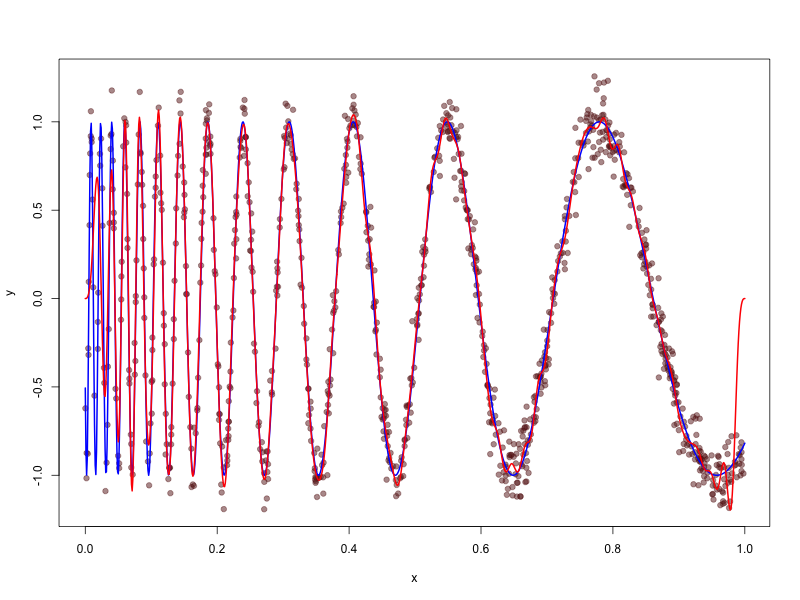
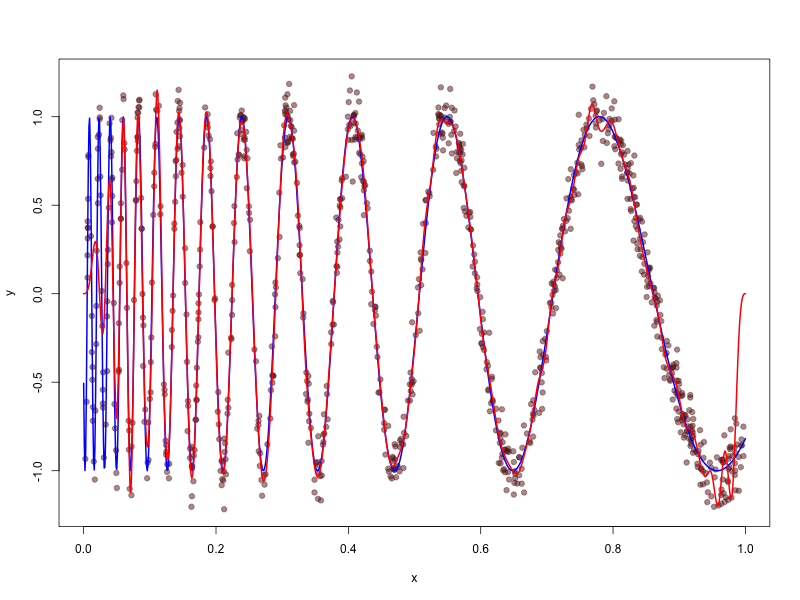
minor changes

diff --git a/examples/language/orgmode_example.html b/examples/language/orgmode_example.html
@@ -1,0 +1,50 @@
+<!DOCTYPE html>
+<html lang="en">
+<head>
+<meta charset="utf-8">
+<meta name="viewport" content="width=device-width, initial-scale=1">
+<title>Untitled</title>
+<style>body{max-width:48em;margin:2em auto;padding:0 1em;background:#fff;font-family:sans-serif;line-height:1.5;color:#222}pre{background:#f2f2f2;padding:0.6em;overflow:auto;border-radius:3px}code{background:#f2f2f2;padding:0.1em 0.3em;border-radius:3px}img{max-width:100%}h1,h2,h3{line-height:1.25}table{border-collapse:collapse;margin:1.2em 0;width:100%}th{border:1px solid #d0d7de;padding:0.4em 0.7em;text-align:left;vertical-align:top;background:#f6f8fa;font-weight:600}td{border:1px solid #d0d7de;padding:0.4em 0.7em;text-align:left;vertical-align:top}.org-code-block{margin:1.2em 0;border-top:1px solid #d0d7de;border-right:1px solid #d0d7de;border-bottom:1px solid #d0d7de;border-left:4px solid #6b8afd;border-radius:4px;overflow:hidden;background:#fff;color:#24292e;font-size:0.95em}.org-code-header{display:flex;justify-content:space-between;align-items:center;gap:0.6em;padding:0.35em 0.8em;background:#f6f8fa;border-bottom:1px solid #d0d7de;font-family:ui-monospace,Menlo,Consolas,monospace;font-size:0.8em;color:#57606a}.org-code-lang{text-transform:lowercase;letter-spacing:0.02em}.org-code-copy{background:#eaeef2;color:#24292e;border:none;border-radius:3px;padding:0.2em 0.7em;font-size:0.85em;cursor:pointer;font-family:inherit}.org-code-copy:hover{background:#d0d7de}.org-code-pre{margin:0;padding:0.8em 1em;background:#fff;border-radius:0;overflow:auto}.org-code-body{background:#fff;padding:0;border-radius:0;color:#24292e;font-family:ui-monospace,Menlo,Consolas,monospace;font-size:0.9em;line-height:1.5}.tok-comment{color:#6b7280;font-style:italic}.tok-green{color:#1a7f37}.tok-cyan{color:#0b7285}.tok-purple{color:#8250df}.tok-blue{color:#0550ae}.tok-orange{color:#953800}.tok-red{color:#cf222e}.tok-yellow{color:#9a6700}.hl-red{color:#cf222e;font-weight:bold}.hl-orange{color:#953800;font-weight:bold}.hl-yellow{color:#9a6700;font-weight:bold}.hl-green{color:#1a7f37;font-weight:bold}.hl-cyan{color:#0b7285;font-weight:bold}.hl-blue{color:#0550ae;font-weight:bold}.hl-purple{color:#8250df;font-weight:bold}</style>
+<script>function mepCopyCode(btn){var block=btn.closest(".org-code-block");var code=block&&block.querySelector("code");if(!code)return;var text=code.innerText;var restore=function(){setTimeout(function(){btn.textContent="Copy";},1200);};btn.textContent="Copied!";if(navigator.clipboard&&navigator.clipboard.writeText){navigator.clipboard.writeText(text).then(restore,restore);}else{var ta=document.createElement("textarea");ta.value=text;ta.style.position="fixed";ta.style.opacity="0";document.body.appendChild(ta);ta.select();try{document.execCommand("copy");}catch(e){}document.body.removeChild(ta);restore();}}</script>
+<script>window.MathJax = {tex: {inlineMath: {'[+]': [['$', '$']]}}};</script>
+<script id="MathJax-script" async src="https://cdn.jsdelivr.net/npm/mathjax@3/es5/tex-mml-chtml.js"></script>
+</head>
+<body>
+<p>Here's some inline latex: $\alpha + \beta = \gamma$</p>
+<p>Now, here's some latex in a block:
+\[
+\int_{-\infty}^{\infty} e^{-x^2} dx = \sqrt{\pi}
+\]</p>
+<h1>R</h1>
+<div class="org-code-block"><div class="org-code-header"><span class="org-code-lang">R</span> <span class="org-code-copy" role="button" tabindex="0" onclick="mepCopyCode(this)">Copy</span></div><pre class="org-code-pre"><code class="org-code-body" data-lang="R"> <span class="tok-cyan">1</span>:  <span class="tok-blue">library</span>(splines)
+ <span class="tok-cyan">2</span>:  n &lt;- <span class="tok-cyan">1000</span>
+ <span class="tok-cyan">3</span>:  x &lt;- runif(n, <span class="tok-cyan">0</span>, <span class="tok-cyan">1</span>)
+ <span class="tok-cyan">4</span>:  doppler &lt;- <span class="tok-purple">function</span>(x) {
+ <span class="tok-cyan">5</span>:    <span class="tok-blue">sin</span>(<span class="tok-cyan">20</span> / (x + <span class="tok-cyan">0.2</span>))
+ <span class="tok-cyan">6</span>:  <span class="tok-red">}</span>
+ <span class="tok-cyan">7</span>:  ytrue &lt;- doppler(x)
+ <span class="tok-cyan">8</span>:  epsilon &lt;- <span class="tok-blue">rnorm</span>(n, <span class="tok-cyan">0</span>, <span class="tok-cyan">0.1</span>)
+ <span class="tok-cyan">9</span>:  y &lt;- ytrue + epsilon
+<span class="tok-cyan">10</span>:  xseq &lt;- seq(<span class="tok-cyan">0</span>, <span class="tok-cyan">1</span>, length.out = n)
+<span class="tok-cyan">11</span>:  yseq &lt;- doppler(xseq)
+<span class="tok-cyan">12</span>:  <span class="tok-blue">plot</span>(x, y, col = rgb(<span class="tok-cyan">0.4</span>, <span class="tok-cyan">0.1</span>, <span class="tok-cyan">0.1</span>, <span class="tok-cyan">0.5</span>), pch = <span class="tok-cyan">19</span>, xlab = <span class="tok-green">"x"</span>, <span class="tok-red">ylab</span> = <span class="tok-green">"y"</span>)
+<span class="tok-cyan">13</span>:  <span class="tok-blue">lines</span>(xseq, yseq, <span class="tok-red">col</span> = <span class="tok-green">"blue"</span>, <span class="tok-red">lwd</span> = <span class="tok-cyan">2</span>)
+<span class="tok-cyan">14</span>:  nk &lt;- <span class="tok-cyan">100</span>
+<span class="tok-cyan">15</span>:  kseq &lt;- <span class="tok-blue">seq</span>(<span class="tok-cyan">0</span>, <span class="tok-cyan">1</span>, length.out = nk)
+<span class="tok-cyan">16</span>:  xmat &lt;- spline.des(kseq, x, ord = <span class="tok-cyan">4</span>, outer.ok = <span class="tok-cyan">TRUE</span>)$design
+<span class="tok-cyan">17</span>:  lm1 &lt;- lm(y ~ xmat - <span class="tok-cyan">1</span>)
+<span class="tok-cyan">18</span>:  beta &lt;- as.matrix(coef(lm1), <span class="tok-red">ncol</span> = <span class="tok-cyan">1</span>)
+<span class="tok-cyan">19</span>:  xseqmat &lt;- spline.des(kseq, xseq, ord = <span class="tok-cyan">4</span>, <span class="tok-red">outer.ok</span> = <span class="tok-cyan">TRUE</span>)$design
+<span class="tok-cyan">20</span>:  yhat &lt;- xseqmat %*% beta
+<span class="tok-cyan">21</span>:  <span class="tok-blue">lines</span>(xseq, yhat, <span class="tok-red">col</span> = <span class="tok-green">"red"</span>, <span class="tok-red">lwd</span> = <span class="tok-cyan">2</span>)</code></pre></div>
+<p><img src="./test.png" alt="./test.png"></p>
+<h1>Python</h1>
+<div class="org-code-block"><div class="org-code-header"><span class="org-code-lang">python</span> <span class="org-code-copy" role="button" tabindex="0" onclick="mepCopyCode(this)">Copy</span></div><pre class="org-code-pre"><code class="org-code-body" data-lang="python"><span class="tok-cyan">1</span>:  print(<span class="tok-green">"</span><span class="tok-green">Hello, world</span><span class="tok-green">"</span>)
+<span class="tok-cyan">2</span>:  
+<span class="tok-cyan">3</span>:  <span class="tok-purple">for</span> i <span class="tok-purple">in</span> range(<span class="tok-cyan">5</span>):
+<span class="tok-cyan">4</span>:      <span class="tok-blue">print</span>(<span class="tok-green">f"</span><span class="tok-green">Iteration </span><span class="tok-yellow">{</span>i<span class="tok-yellow">}</span><span class="tok-green">"</span>)</code></pre></div>
+<h1>Maxima</h1>
+<div class="org-code-block"><div class="org-code-header"><span class="org-code-lang">maxima</span> <span class="org-code-copy" role="button" tabindex="0" onclick="mepCopyCode(this)">Copy</span></div><pre class="org-code-pre"><code class="org-code-body" data-lang="maxima">tex(integrate(x^2+y^2, x));</code></pre></div>
+<p>$$\int_{-\infty }^{\infty }{e^{\left \{-x^2 \right \}}\;dx}$$</p>
+</body>
+</html>

diff --git a/src/editor.cpp b/src/editor.cpp
@@ -29340,6 +29340,18 @@ std::string IconForFilename(const std::string &name) {
         {"php", 0xe608},  {"csv", 0xe64a},  {"env", 0xf462},
         {"git", 0xe702},  {"png", 0xe60d},  {"jpg", 0xe60d},  {"jpeg", 0xe60d}, {"gif", 0xe60d},  {"svg", 0xf0721},
         {"pdf", 0xeaeb},  {"zip", 0xf410},  {"tar", 0xf410},  {"gz", 0xf410},
+        // Remaining languages with examples under examples/language/. All
+        // glyphs are inside kIconCodepointRanges (main.cpp), so no font
+        // subset regeneration is needed.
+        {"clj", 0xe768},  {"cljc", 0xe768}, {"cljs", 0xe790}, {"cr", 0xe62f},   {"d", 0xe7af},    {"dart", 0xe798},
+        {"erl", 0xe7b1},  {"hrl", 0xe7b1},  {"ex", 0xe62d},   {"exs", 0xe62d},  {"f90", 0xe7de},  {"f95", 0xe7de},
+        {"f03", 0xe7de},  {"f", 0xe7de},    {"for", 0xe7de},  {"fish", 0xee41}, {"g", 0xf1ec},    {"gap", 0xf1ec},
+        {"gi", 0xf1ec},   {"groovy", 0xe775}, {"gradle", 0xe775}, {"hs", 0xe777}, {"lhs", 0xe777}, {"ipynb", 0xe678},
+        {"jl", 0xe624},   {"kt", 0xe634},   {"kts", 0xe634},  {"m", 0xe82a},    {"mac", 0xeee0},  {"wxm", 0xeee0},
+        {"ml", 0xe67a},   {"mli", 0xe67a},  {"nim", 0xe677},  {"nims", 0xe677}, {"nix", 0xe843},  {"pl", 0xe67e},
+        {"pm", 0xe67e},   {"r", 0xe68a},    {"rmd", 0xe68a},  {"scala", 0xe737}, {"sc", 0xe737},  {"scm", 0xe6b1},
+        {"ss", 0xe6b1},   {"rkt", 0xe6b1},  {"lisp", 0xe6b0}, {"tcl", 0xedf7},  {"tex", 0xe69b},  {"sty", 0xe69b},
+        {"bib", 0xe69b},  {"zig", 0xe6a9},  {"mjs", 0xe60c},  {"cjs", 0xe60c},  {"mepml", 0xe633},
     };
     auto by_ext = kByExt.find(ext);
     if (by_ext != kByExt.end()) return Utf8FromCodepoint(by_ext->second);
@@ -29378,6 +29390,17 @@ std::string HlGroupForFilename(const std::string &name) {
         {"log", "MutedFg"}, {"cs", "Red"},      {"php", "Purple"},  {"csv", "Green"},   {"env", "Yellow"},
         {"git", "Orange"},  {"png", "Purple"},  {"jpg", "Purple"},  {"jpeg", "Purple"}, {"gif", "Purple"},
         {"svg", "Purple"},  {"pdf", "Red"},     {"zip", "Orange"},  {"tar", "Orange"},  {"gz", "Orange"},
+        {"clj", "Green"},   {"cljc", "Green"},  {"cljs", "Blue"},   {"cr", "MutedFg"},  {"d", "Red"},
+        {"dart", "Cyan"},   {"erl", "Red"},     {"hrl", "Red"},     {"ex", "Purple"},   {"exs", "Purple"},
+        {"f90", "Purple"},  {"f95", "Purple"},  {"f03", "Purple"},  {"f", "Purple"},    {"for", "Purple"},
+        {"fish", "Green"},  {"g", "Cyan"},      {"gap", "Cyan"},    {"gi", "Cyan"},     {"groovy", "Cyan"},
+        {"gradle", "Cyan"}, {"hs", "Purple"},   {"lhs", "Purple"},  {"ipynb", "Orange"}, {"jl", "Purple"},
+        {"kt", "Purple"},   {"kts", "Purple"},  {"m", "Orange"},    {"mac", "Red"},     {"wxm", "Red"},
+        {"ml", "Orange"},   {"mli", "Orange"},  {"nim", "Yellow"},  {"nims", "Yellow"}, {"nix", "Blue"},
+        {"pl", "Blue"},     {"pm", "Blue"},     {"r", "Blue"},      {"rmd", "Blue"},    {"scala", "Red"},
+        {"sc", "Red"},      {"scm", "Red"},     {"ss", "Red"},      {"rkt", "Red"},     {"lisp", "Purple"},
+        {"tcl", "Blue"},    {"tex", "Green"},   {"sty", "Green"},   {"bib", "Green"},   {"zig", "Orange"},
+        {"mjs", "Yellow"},  {"cjs", "Yellow"},  {"mepml", "Cyan"},
     };
     auto by_ext = kByExt.find(ext);
     if (by_ext != kByExt.end()) return by_ext->second;
